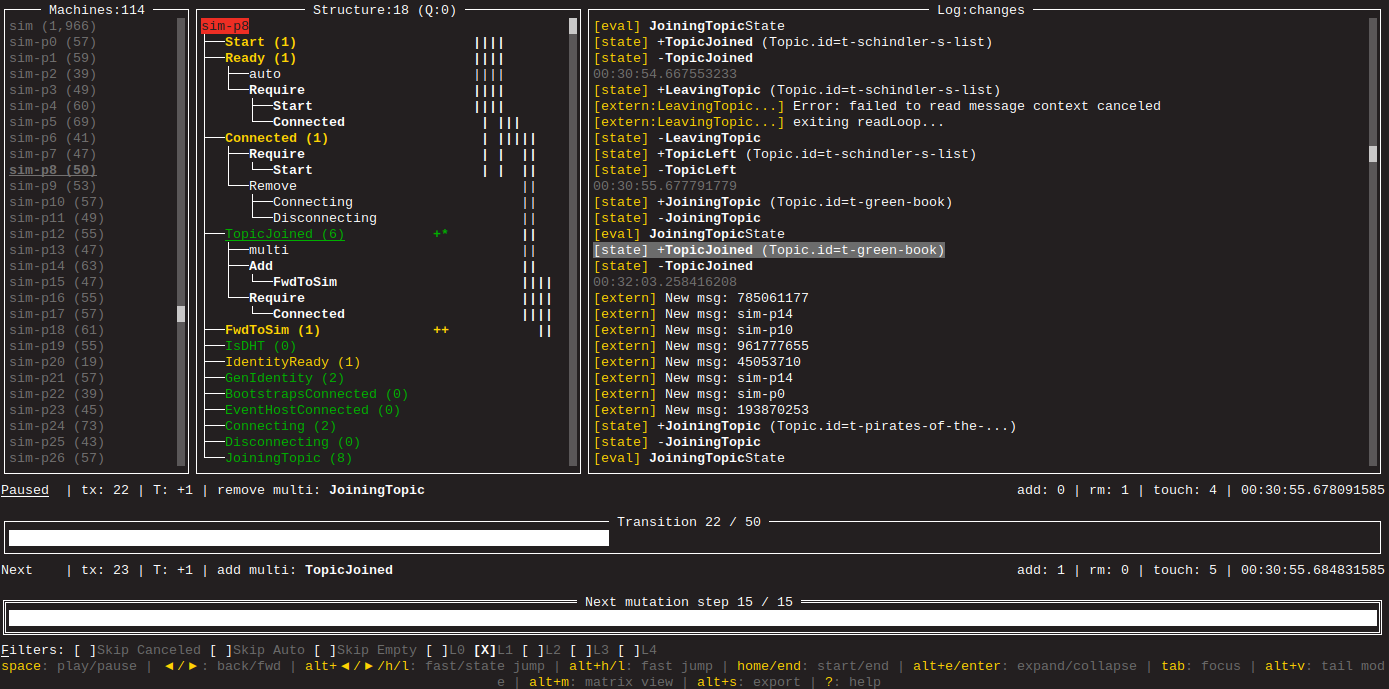
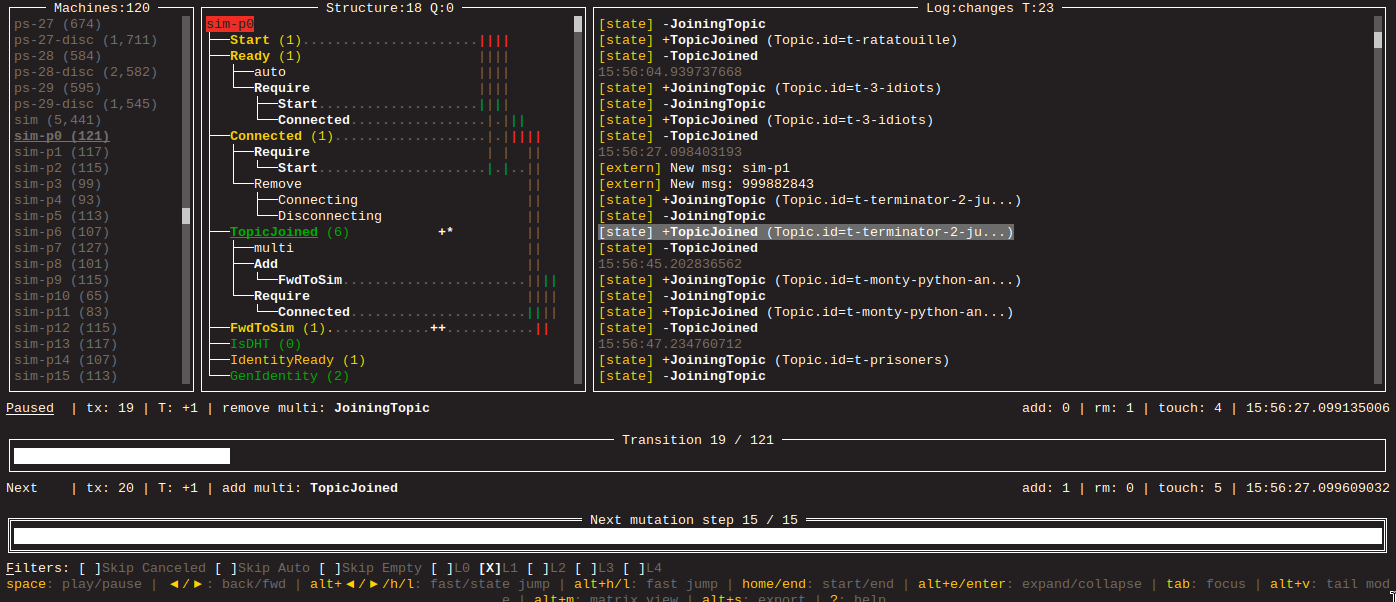
chore: update promo materials

Changed region(s): [[0.0, 0.0, 1.0, 1.0], [0.3096, 0.5382, 0.3405, 0.5681]]

diff --git a/tools/cmd/am-dbg-teaser/main_dbg_teaser.go b/tools/cmd/am-dbg-teaser/main_dbg_teaser.go
@@ -21,8 +21,8 @@ var (
 	startupTx      = 25
 	initialView    = "matrix"
 	playInterval   = 200 * time.Millisecond
-	// debugAddr			= ""
-	debugAddr = "localhost:9913"
+	debugAddr      = ""
+	// debugAddr = "localhost:9913"
 )
 
 func main() {

diff --git a/README.md b/README.md
@@ -9,6 +9,8 @@
   <p align="center">
     <a href="#usage"><strong>Usage »</strong></a>
     <br>
+    <a href="#examples"><strong>Demos »</strong></a>
+    <br>
     <a href="#examples"><strong>Examples »</strong></a>
     <br>
     <a href="#documentation"><strong>Documentation »</strong></a>
@@ -24,7 +26,7 @@
 
 <hr>
 
-![TUI Debugger](assets/am-dbg.gif)
+[![TUI Debugger](assets/am-dbg-teaser.gif)](assets/am-dbg-teaser.gif)
 
 **asyncmachine-go** is a minimal implementation of [AsyncMachine](https://github.com/TobiaszCudnik/asyncmachine)
 in Golang using **channels and context**. It aims at simplicity and speed.
@@ -150,7 +152,7 @@ func (h *Handlers) ProcessingFileState(e *am.Event) {
 <-mach.WhenTime(am.S{"Foo", "Bar"}, am.T{6, 10}, nil)
 
 // wait for DownloadingFile to have a tick increased by 2 since now
-<-mach.WhenTick("DownloadingFile", 2, nil)
+<-mach.WhenTicks("DownloadingFile", 2, nil)
 
 // wait for an error
 <-mach.WhenErr()
@@ -162,8 +164,8 @@ See [docs/cookbook.md](docs/cookbook.md) for more snippets.
 
 Demos show data from the [go-libp2p-pubsub simulator](#libp2p-pubsub-simulator).
 
-- [am-dbg web demo](http://188.166.101.108:8080/wetty/ssh/am-dbg?pass=am-dbg)
-- am-dbg ssh demo - `ssh 188.166.101.108 -p 4444`
+- [am-dbg over web](http://188.166.101.108:8080/)
+- am-dbg over ssh - `ssh 188.166.101.108 -p 4444`
 
 ## Examples
 
@@ -406,13 +408,10 @@ See [`tools/cmd/am-gen`](tools/cmd/am-gen/README.md) for more info.
 
 ### Debugger
 
-<picture>
-  <source media="(prefers-color-scheme: dark)" srcset="assets/am-dbg.dark.png?raw=true">
-  <source media="(prefers-color-scheme: light)" srcset="assets/am-dbg.light.png?raw=true">
-  <img alt="TUI debugger" src="assets/am-dbg.dark.png?raw=true">
-</picture>
+![am-dbg](assets/am-dbg.dark.png#gh-dark-mode-only)
+![am-dbg](assets/am-dbg.light.png#gh-light-mode-only)
 
-`am-dbg` is a lightweight, multi-client debugger for AM. It easily handles >100
+`am-dbg` is a lightweight, multi-client debugger for AM. It easily handles hundreds of
  client machines simultaneously streaming telemetry data (and potentially many more). Some features include:
 
 - states tree
@@ -429,11 +428,8 @@ See [`tools/cmd/am-dbg`](tools/cmd/am-dbg/README.md) for more info.
 
 ### Open Telemetry
 
-<picture>
-  <source media="(prefers-color-scheme: dark)" srcset="assets/otel-jaeger.dark.png?raw=true">
-  <source media="(prefers-color-scheme: light)" srcset="assets/otel-jaeger.light.png?raw=true">
-  <img alt="Test duration chart" src="assets/otel-jaeger.dark.png?raw=true">
-</picture>
+![Prometheus Grafana](assets/otel-jaeger.dark.png#gh-dark-mode-only)
+![Prometheus Grafana](assets/otel-jaeger.light.png#gh-light-mode-only)
 
 [`pkg/telemetry`](pkg/telemetry/README.md) provides [Open Telemetry](https://opentelemetry.io/) integration which exposes
 machine's states and transitions as Otel traces, compatible with [Jaeger](https://www.jaegertracing.io/).
@@ -442,11 +438,8 @@ See [`pkg/telemetry`](pkg/telemetry/README.md) for more info or [import a sample
 
 ### Prometheus
 
-<picture>
-  <source media="(prefers-color-scheme: dark)" srcset="assets/prometheus-grafana.dark.png?raw=true">
-  <source media="(prefers-color-scheme: light)" srcset="assets/prometheus-grafana.light.png?raw=true">
-  <img alt="Test duration chart" src="assets/prometheus-grafana.dark.png?raw=true">
-</picture>
+![Prometheus Grafana](assets/prometheus-grafana.dark.png#gh-dark-mode-only)
+![Prometheus Grafana](assets/prometheus-grafana.light.png#gh-light-mode-only)
 
 [`pkg/telemetry/prometheus`](pkg/telemetry/prometheus/README.md) binds to machine's transactions and averages the
 values withing an interval window and exposes various metrics. Combined with [Grafana](https://grafana.com/), it can be
@@ -461,11 +454,8 @@ a lot of inspectable data.
 
 ### libp2p-pubsub benchmark
 
-<picture>
-  <source media="(prefers-color-scheme: dark)" srcset="assets/bench.dark.jpg?raw=true">
-  <source media="(prefers-color-scheme: light)" srcset="assets/bench.light.png?raw=true">
-  <img alt="Test duration chart" src="assets/bench.dark.jpg?raw=true">
-</picture>
+![Test duration chart](assets/bench.dark.jpg#gh-dark-mode-only)
+![Test duration chart](assets/bench.light.png#gh-light-mode-only)
 
 - **pubsub host** - eg `ps-17` (20 states)<br />
   PubSub machine is a simple event loop with Multi states which get responses via arg channels. Heavy use of `Machine.Eval()`.
@@ -480,11 +470,8 @@ or the [pdf results](https://github.com/pancsta/go-libp2p-pubsub-benchmark/raw/m
 
 ### libp2p-pubsub simulator
 
-<picture>
-  <source media="(prefers-color-scheme: dark)" srcset="assets/sim-grafana.dark.png?raw=true">
-  <source media="(prefers-color-scheme: light)" srcset="assets/sim-grafana.light.png?raw=true">
-  <img alt="Simulator grafana dashboard" src="assets/sim-grafana.dark.png?raw=true">
-</picture>
+![Simulator grafana dashboard](assets/sim-grafana.dark.png#gh-dark-mode-only)
+![Simulator grafana dashboard](assets/sim-grafana.light.png#gh-light-mode-only)
 
 - **simulator** `sim` (14 states)<br />
   Root simulator machine, initializes the network and manipulates it during heartbeats according to frequency
@@ -508,7 +495,7 @@ am-dbg is a [cview](https://code.rocket9labs.com/tslocum/cview) TUI app with a s
 - actions (14 states)
 
 This machine features a decent amount of relations within a large number of states and 4 state groups. It's also a good
-example to see how easily an AM-based program can be controller with a script in [tools/cmd/am-dbg-demo](tools/cmd/am-dbg-demo/main.go#L68).
+example to see how easily an AM-based program can be controller with a script in [tools/cmd/am-dbg-teaser](tools/cmd/am-dbg-teaser/main_dbg_teaser.go).
 
 <details>
 

diff --git a/docs/manual.md b/docs/manual.md
@@ -1047,7 +1047,7 @@ Foo
 <-mach.WhenTime(am.S{"Foo", "Bar"}, am.T{6, 10}, nil)
 
 // wait for DownloadingFile to have a tick increased by 2 since now
-<-mach.WhenTick("DownloadingFile", 2, nil)
+<-mach.WhenTicks("DownloadingFile", 2, nil)
 ```
 
 Almost all "when" methods return a share channel which closes when an event happens (or the optionally passed context is
@@ -1063,8 +1063,8 @@ these channels will be reused and should scale way better.
 - [`Machine.WhenNot1(state, ctx)`](https://pkg.go.dev/github.com/pancsta/asyncmachine-go/pkg/machine#Machine.WhenNot1)
 - [`Machine.WhenArgs(state, args, ctx)`](https://pkg.go.dev/github.com/pancsta/asyncmachine-go/pkg/machine#Machine.WhenArgs)
 - [`Machine.WhenTime(states, ctx)`](https://pkg.go.dev/github.com/pancsta/asyncmachine-go/pkg/machine#Machine.WhenTime)
-- [`Machine.WhenTick(state, ctx)`](https://pkg.go.dev/github.com/pancsta/asyncmachine-go/pkg/machine#Machine.WhenTick)
-- [`Machine.WhenTickEq(state, ctx)`](https://pkg.go.dev/github.com/pancsta/asyncmachine-go/pkg/machine#Machine.WhenTickEq)
+- [`Machine.WhenTicks(state, ctx)`](https://pkg.go.dev/github.com/pancsta/asyncmachine-go/pkg/machine#Machine.WhenTick)
+- [`Machine.WhenTicksEq(state, ctx)`](https://pkg.go.dev/github.com/pancsta/asyncmachine-go/pkg/machine#Machine.WhenTickEq)
 - [`Machine.WhenQueueEnds(state, ctx)`](https://pkg.go.dev/github.com/pancsta/asyncmachine-go/pkg/machine#Machine.WhenQueueEnds)
 - [`Machine.WhenErr(state, ctx)`](https://pkg.go.dev/github.com/pancsta/asyncmachine-go/pkg/machine#Machine.WhenErr)
 
@@ -1211,6 +1211,8 @@ m.Add1("Foo", nil) // ->Executed
 [add] Bar
 [state] +Bar
 ```
+
+TODO describe duplicate detection rules
 
 ### Logging
 

diff --git a/pkg/telemetry/prometheus/README.md b/pkg/telemetry/prometheus/README.md
@@ -1,10 +1,7 @@
 # Prometheus
 
-<picture>
-  <source media="(prefers-color-scheme: dark)" srcset="../../../assets/prometheus-grafana.dark.png?raw=true">
-  <source media="(prefers-color-scheme: light)" srcset="../../../assets/prometheus-grafana.light.png?raw=true">
-  <img alt="Test duration chart" src="../../../assets/prometheus-grafana.dark.png?raw=true">
-</picture>
+![Prometheus Grafana](assets/prometheus-grafana.dark.png#gh-dark-mode-only)
+![Prometheus Grafana](assets/prometheus-grafana.light.png#gh-light-mode-only)
 
 [`pkg/telemetry/prometheus`](pkg/telemetry/prometheus) binds to machine's transactions and averages the values withing
 an interval exposing various metrics. Combined with [Grafana](https://grafana.com/), it can be used to monitor the

diff --git a/tools/cmd/am-dbg/README.md b/tools/cmd/am-dbg/README.md
@@ -3,11 +3,8 @@
 `am-dbg` is a lightweight, multi-client debugger for [asyncmachine-go](https://github.com/pancsta/asyncmachine-go). It
 easily handles >100 client machines simultaneously streaming telemetry data (and potentially many more).
 
-<picture>
-  <source media="(prefers-color-scheme: dark)" srcset="../../../assets/am-dbg.dark.png?raw=true">
-  <source media="(prefers-color-scheme: light)" srcset="../../../assets/am-dbg.light.png?raw=true">
-  <img alt="TUI debugger" src="../../../assets/am-dbg.dark.png?raw=true">
-</picture>
+![am-dbg](../../../assets/am-dbg.dark.png#gh-dark-mode-only)
+![am-dbg](../../../assets/am-dbg.light.png#gh-light-mode-only)
 
 ## Features
 
